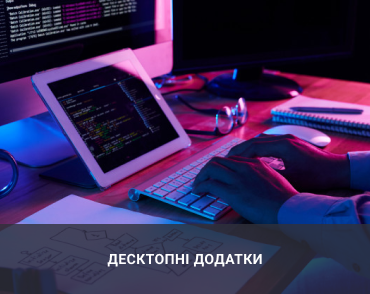
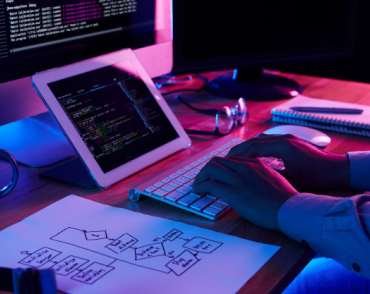
hello

Changed region(s): [[0.0, 0.7347, 1.0, 1.0]]

diff --git a/index.html b/index.html
@@ -74,13 +74,16 @@
                     <div class="what-we-do">
                         <img class="what-we-do-img"
                             src="Img/box 1.png"
-                            alt="Декстопні додатки" width="370px">
+                            alt="#" width="370px">
+                            <p class="Dekstop">ДЕКСТОПНІ ДОДАТКИ</p>
                         <img class="what-we-do-img"
                             src="Img/box 2.png" alt="Мобільні додатки"
                             width="370px">
+                            <p class="Mobile">МОБІЛЬНІ ДОДАТКИ</p>
                         <img class="what-we-do-img"
                             src="Img/box 3.png" alt="Дизайнерські рішення"
                             width="370px">
+                            <p class="Design">ДИЗАЙНЕРСЬКІ РІШЕННЯ</p>
                     </div>
                 </article>
             </div>

diff --git a/style.css b/style.css
@@ -33,6 +33,51 @@ body {
     padding-bottom: 0;
 }
 
+.Dekstop{
+    position: absolute;
+    left: 100;
+    bottom: -1020px;
+    background-color: rgb(0, 0, 0, 0.5);
+    padding: 20px;
+    margin: 0;
+    font-family: sans-serif;
+    font-weight: 700;
+    font-size: 24px;
+    width: 330px;
+    text-align: center;
+    color: white;
+}
+
+.Mobile{
+    position: absolute;
+    left: 575px;
+    bottom: -1020px;
+    background-color: rgb(0, 0, 0, 0.5);
+    padding: 20px;
+    margin: 0;
+    font-family: sans-serif;
+    font-weight: 700;
+    font-size: 24px;
+    width: 330px;
+    text-align: center;
+    color: white;
+}
+
+.Design{
+    position: absolute;
+    left: 975px;
+    bottom: -1020px;
+    background-color: rgb(0, 0, 0, 0.5);
+    padding: 20px;
+    margin: 0;
+    font-family: sans-serif;
+    font-weight: 700;
+    font-size: 24px;
+    width: 330px;
+    text-align: center;
+    color: white;
+}
+
 .our-team{
     padding-top: 94px;
     padding-bottom: 94px;
